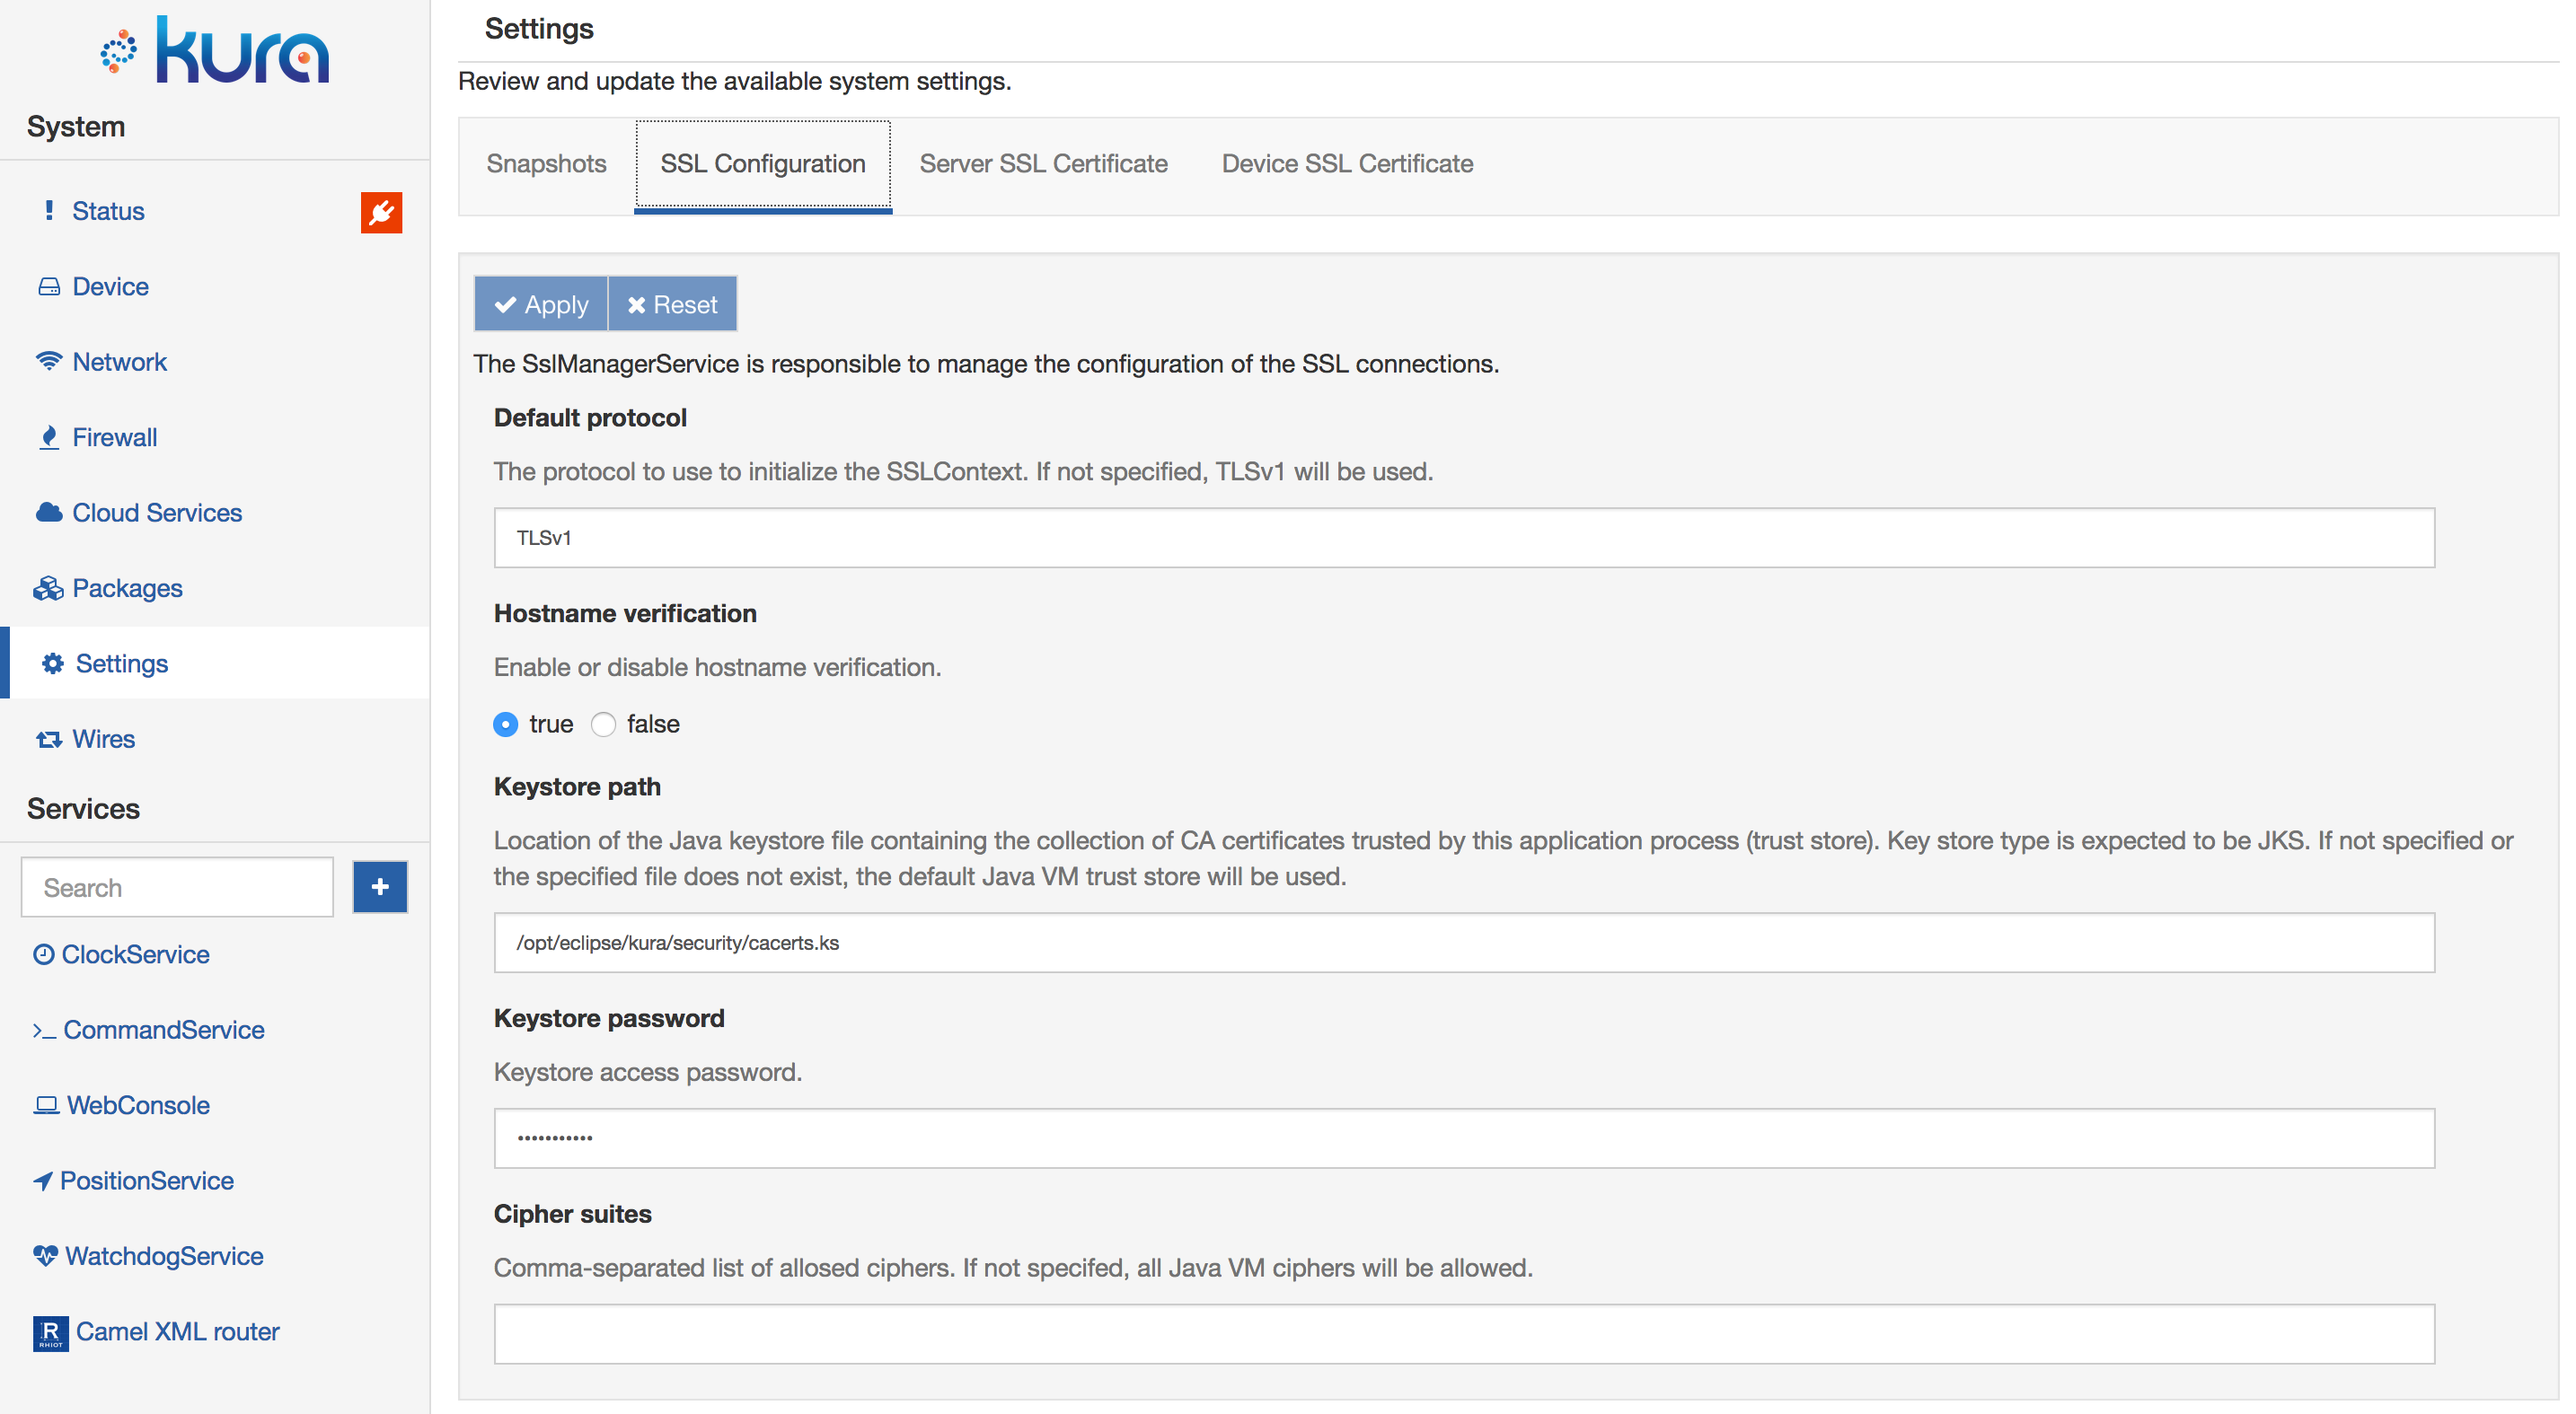
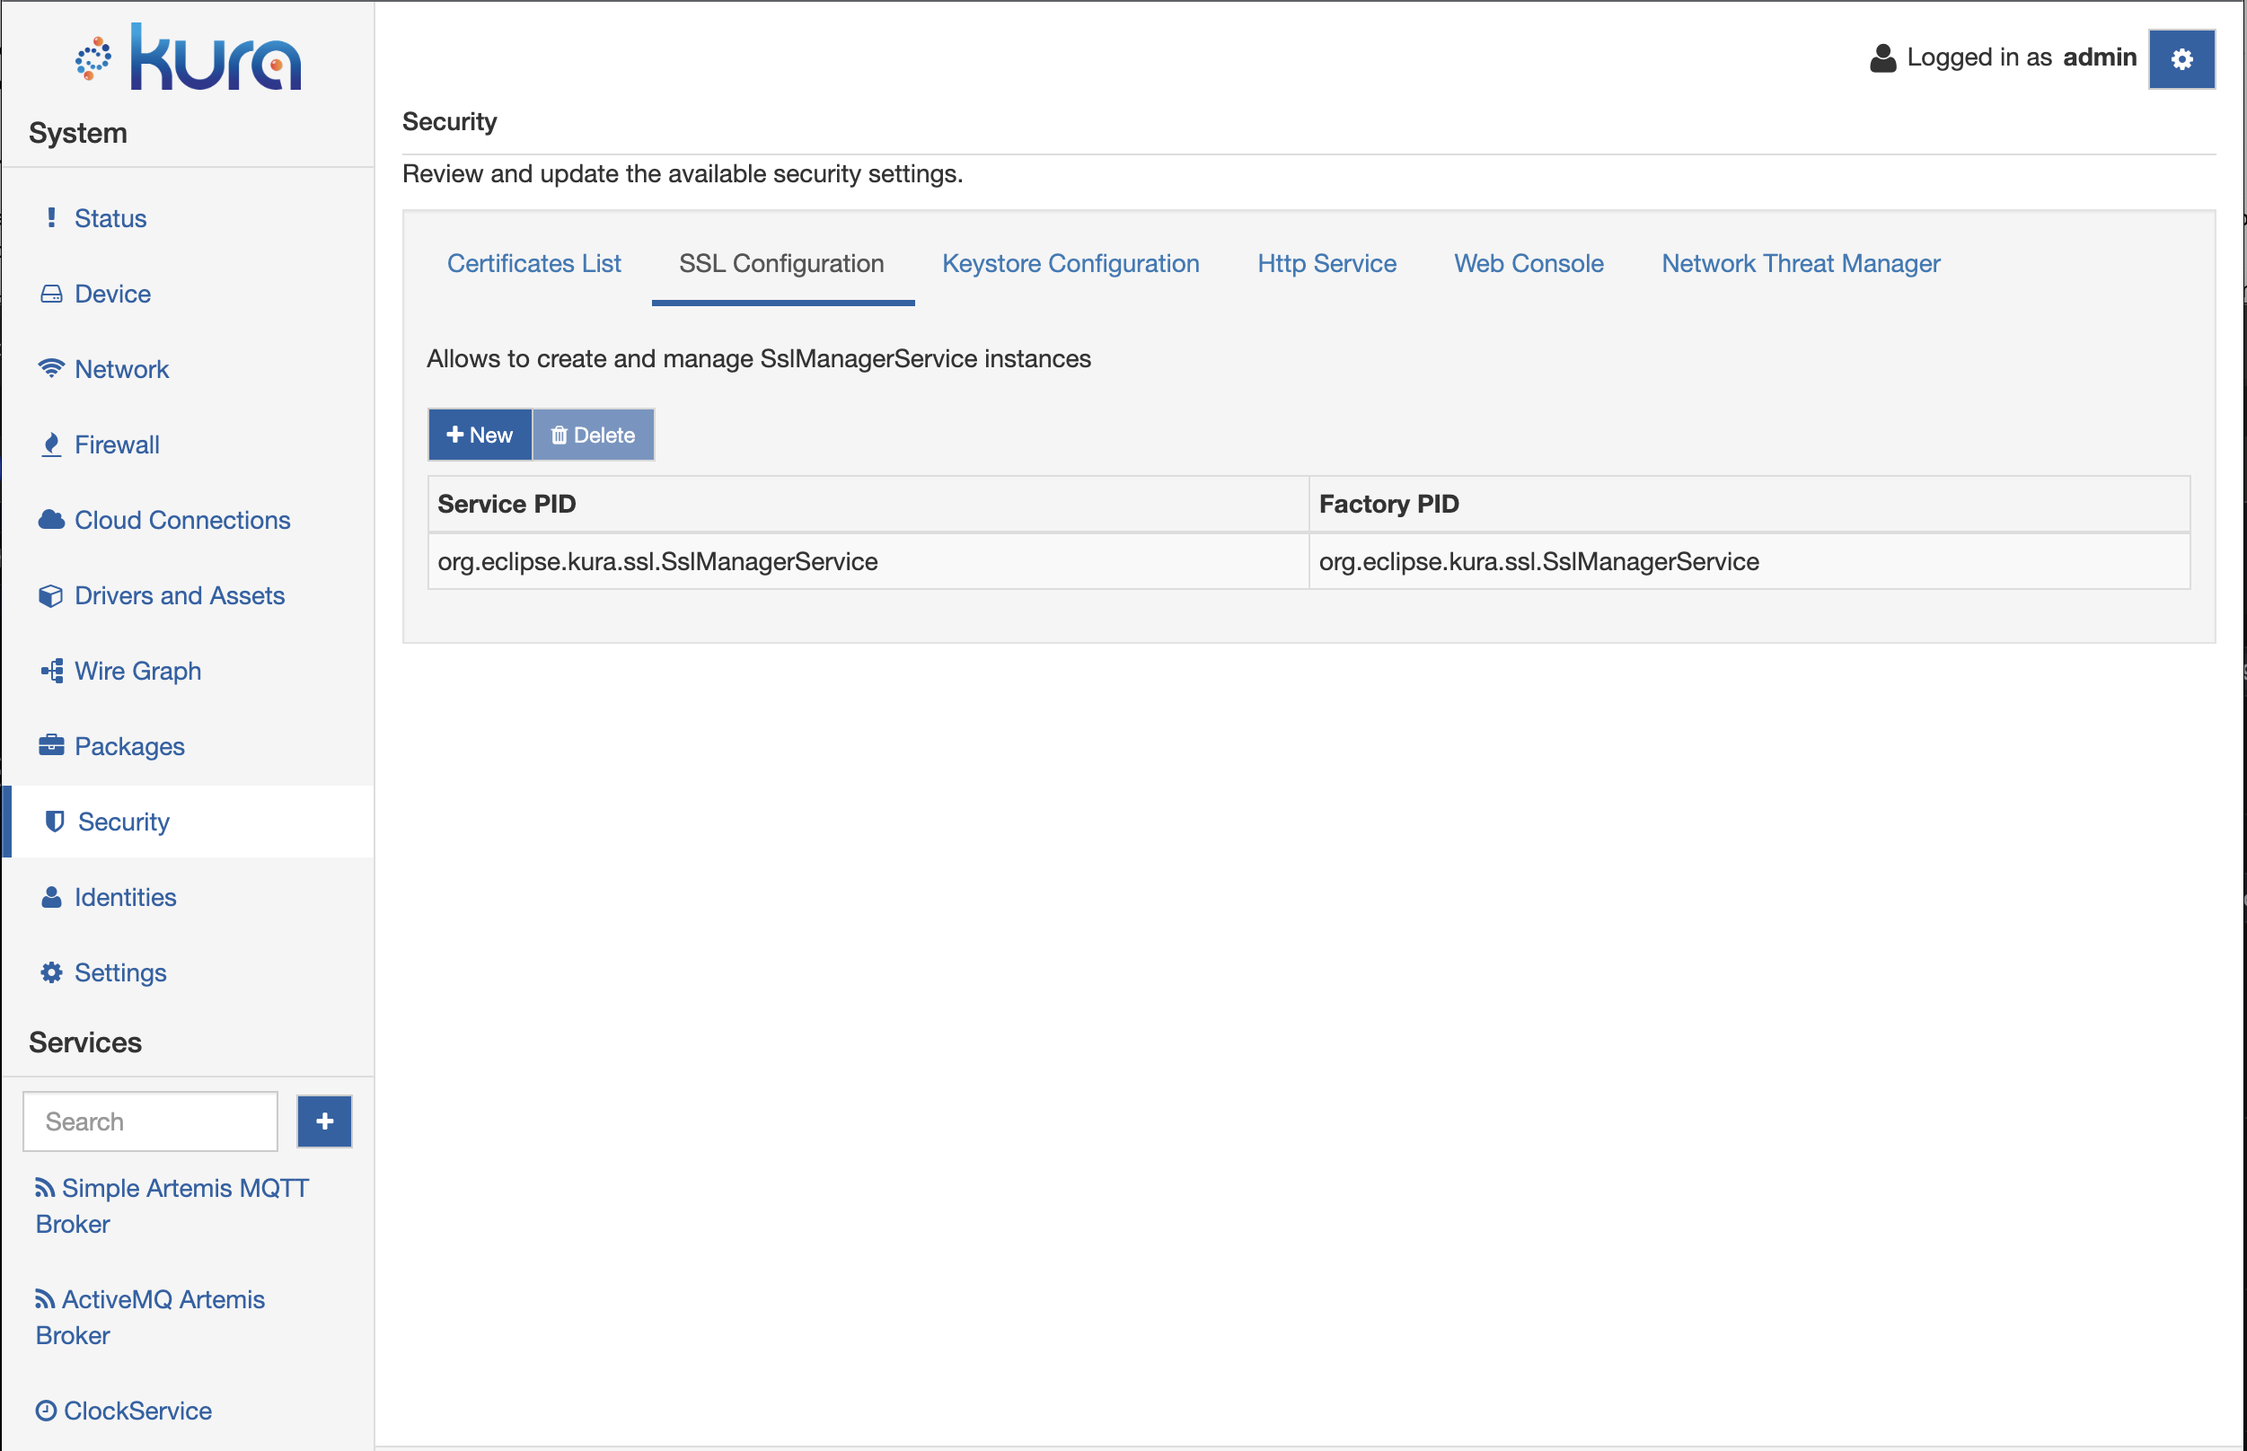
doc: Updated SSLManagerService documentation

diff --git a/_posts/config/2017-06-08-ssl-configuration.md b/_posts/config/2017-06-08-ssl-configuration.md
@@ -4,27 +4,32 @@ title:  "SSL Configuration"
 categories: [config]
 ---
 
-The Ssl Service manages the configuration of the SSL connections. It provides APIs to manage the trust certificates, private keys, and public certificates. It also enforces best practices that are not enabled by default in the Java VM, such as, enabling hostname verification, disabling the legacy SSL-2.0-compatible Client Hello, and disabling the Nagle algorithm.
+A Ssl Service instance manages the configuration of the SSL connections. 
+It uses the associated KeystoreService to access the trust certificates, private keys pairs needed to setup a SSL connection. It also enforces best practices that are not enabled by default in the Java VM, such as, enabling hostname verification, disabling the legacy SSL-2.0-compatible Client Hello, and disabling the Nagle algorithm.
 
-To use this service, select the **SSL Configuration** option located in **Settings** as shown in the screen capture below.
+The list of all available SSL Service instances is available in the **SSL Configuration** tab of the **Security** section, accessible only by the users with the corresponding permission.
 
 ![]({{ site.baseurl }}/assets/images/config/SSLService.png)
 
-The service provides the following configuration parameters:
+By default, the framework creates a SSLManagerService instance with the `org.eclipse.kura.ssl.SslManagerService` PID. This instance is generally used by all the core services of the framework.
 
-- **Default protocol** - defines the allowed SSL protocol.
+A new SSL Service instance can be created using the **New** Button, by specifying the desired factory and the Service PID that will be associated with this new instance.
 
-- **Hostname verification** - indicates whether hostname verification is enabled or disabled.
+![]({{ site.baseurl }}/assets/images/config/SSLServiceNew.png)
 
-- **Keystore path** - specifies the location of the Key Store files.
+An instance of the default `org.eclipse.kura.ssl.SslManagerService` factory has the following configuration parameters:
 
-- **Keystore password** - specifies the keystore access password. (Required field.)
+![]({{ site.baseurl }}/assets/images/config/SSLServiceConfig.png)
 
-- **Cipher suites** - defines the allowed cipher suites.
+- **Keystore Target Filter** - Specifies, as an OSGi target filter, the pid of the KeystoreService used to manage the SSL key store.
 
-At first boot, ESF verifies the accessibility of the default keystore provided with the distribution. If the keystore results accessible, ESF creates a new password that used to access and manage the keystore.
+- **Truststore Target Filter** - Specifies, as an OSGi target filter, the pid of the KeystoreService used to manage the SSL trust store. If the target service cannot be found, the service configured with the Keystore Target Filter parameter will be used as truststore.
 
-The SSL keystore password can be freely changed with a new password, by specifying its value in the _Keystore Password_ field. At every boot, ESF verifies the coherence of the keystore in order to prevent a possible keystore tampering.
+- **ssl.default.protocol** - defines the allowed SSL protocol.
+
+- **ssl.hostname.verification** - indicates whether hostname verification is enabled or disabled.
+
+- **ssl.default.cipherSuites** - defines the allowed cipher suites.
 
 ## SSL Certificates Management
 
